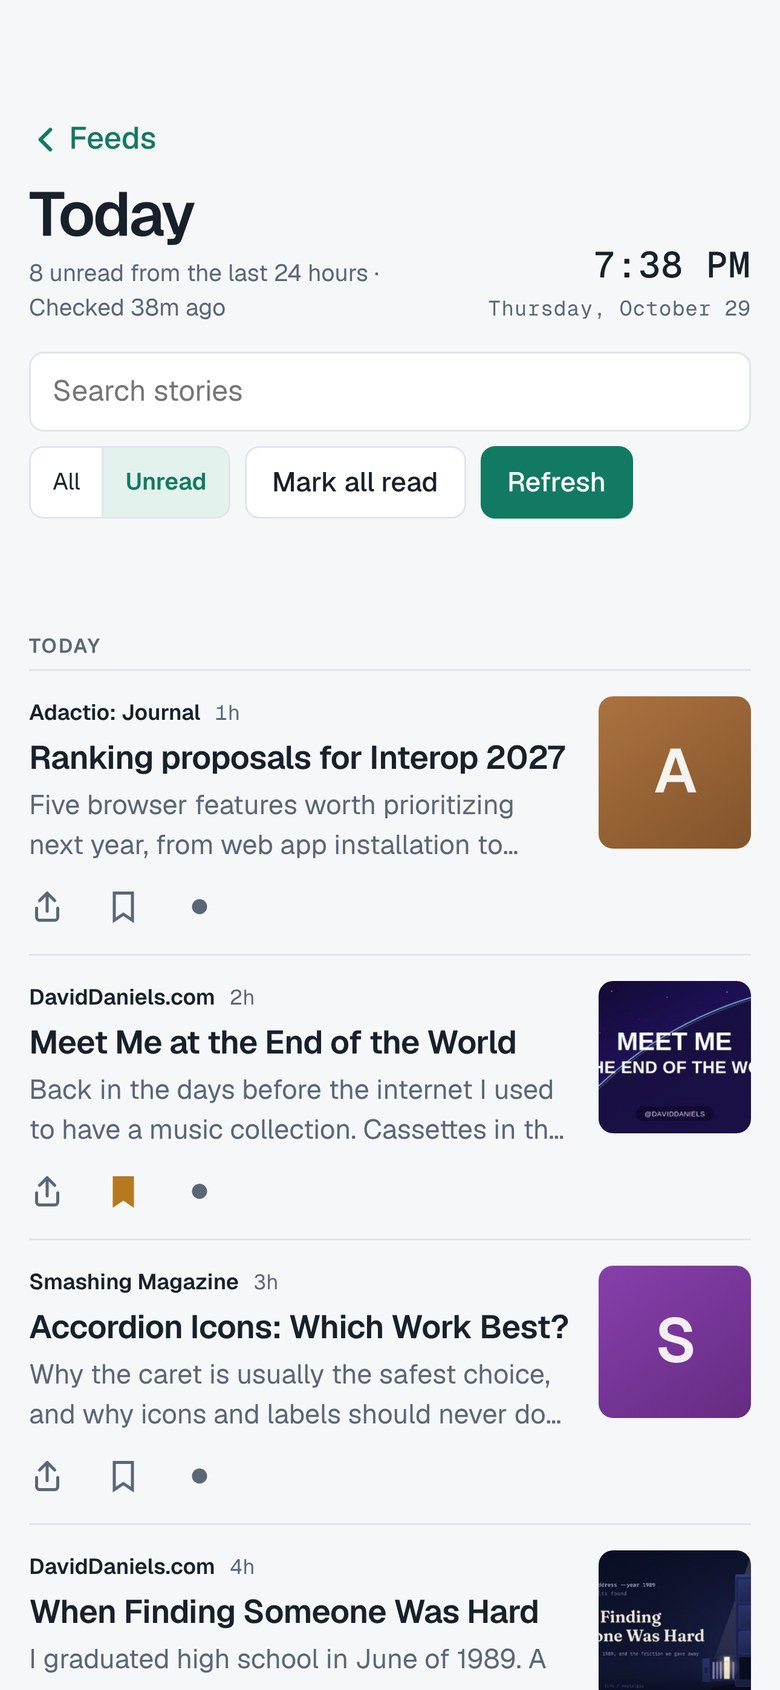
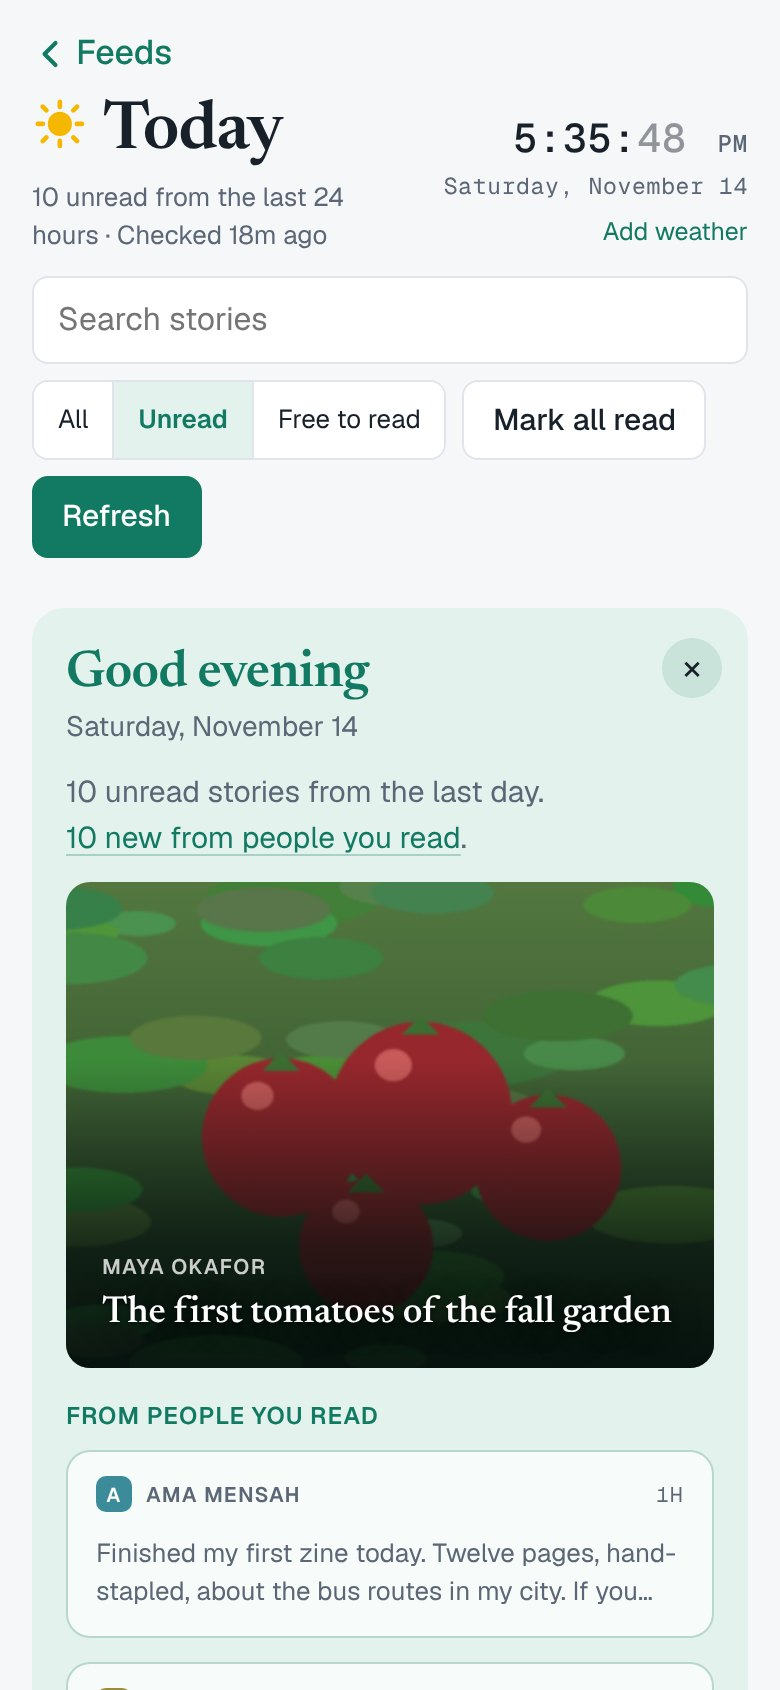
Site: new screenshots from 1.2.5 (Conversations, the reader, Today) with made-up writers, replacing the 1.0 shots
Claude-Session: https://claude.ai/code/session_01GwdVymbCoJ9nxzPsmKNsLV

diff --git a/index.html b/index.html
@@ -43,7 +43,7 @@
     </section>
 
     <div class="hero-shot wrap">
-      <img class="shot" src="assets/img/ipad-1.jpg" width="1800" height="1349" alt="The Reading Room showing Today, a list of stories, and an essay with highlighted passages">
+      <img class="shot" src="assets/img/ipad-1.jpg" width="1800" height="1349" alt="The Reading Room on iPad, showing Conversations: the Neighborhood, with the faces of people who posted and a close friend’s new post">
     </div>
 
     <section class="why" id="why">
@@ -155,8 +155,8 @@
     </section>
     <section class="devices wrap">
       <div class="phones">
-        <img src="assets/img/iphone-2.jpg" width="780" height="1690" loading="lazy" alt="An essay open on iPhone with highlighted passages">
-        <img src="assets/img/iphone-4.jpg" width="780" height="1690" loading="lazy" alt="A note being added to a highlight on iPhone">
+        <img src="assets/img/iphone-2.jpg" width="780" height="1690" loading="lazy" alt="Conversations on iPhone: the Neighborhood, with faces and a close friend’s post">
+        <img src="assets/img/iphone-4.jpg" width="780" height="1690" loading="lazy" alt="A blog post open in the reader on iPhone, with a highlighted passage">
       </div>
       <div>
         <h2 class="h2">On your Mac, your iPhone and your iPad.</h2>

diff --git a/beta/index.html b/beta/index.html
@@ -91,7 +91,7 @@
     </div>
 
     <div class="beta-side">
-      <img src="../assets/img/iphone-1.jpg" width="780" height="1690" alt="The Reading Room on iPhone, showing Today and a list of new stories">
+      <img src="../assets/img/iphone-1.jpg" width="780" height="1690" alt="The Reading Room on iPhone, showing Today with posts from people you read">
     </div>
   </main>
 
